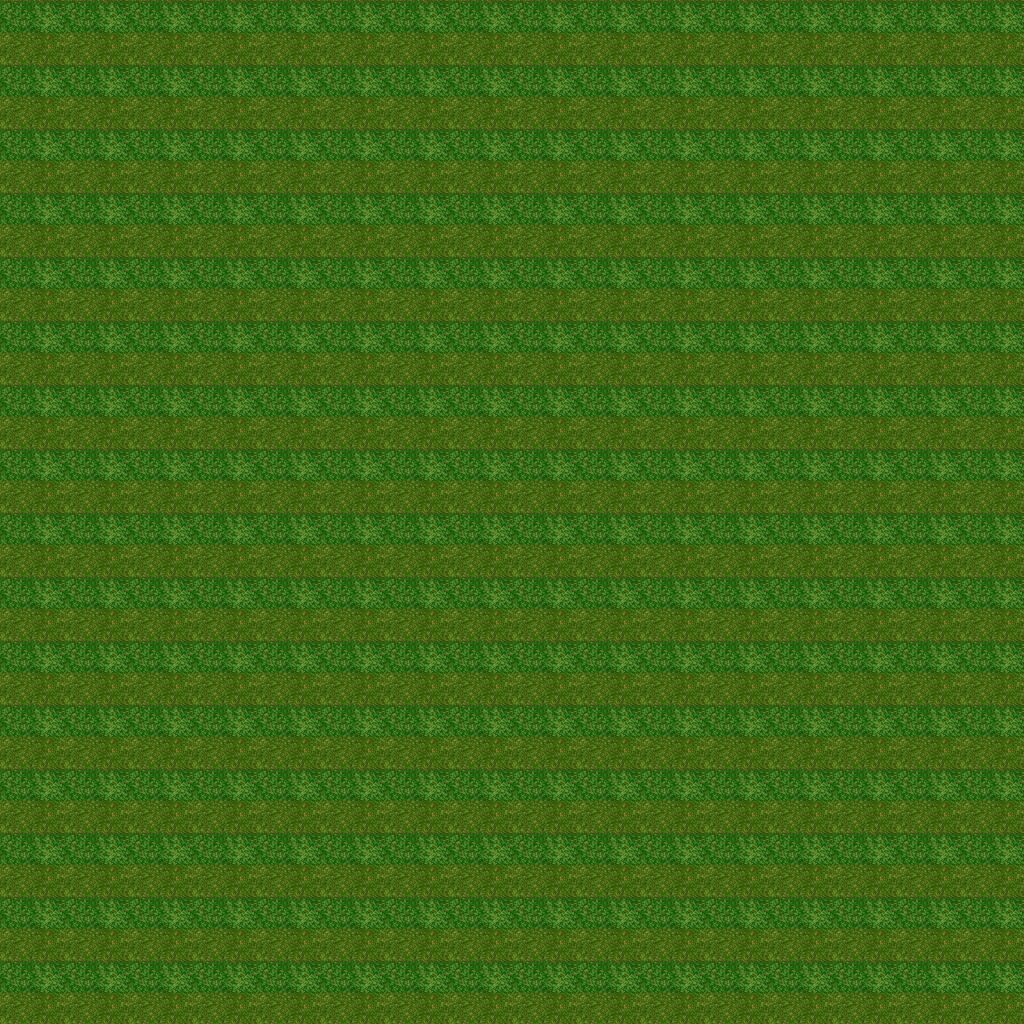
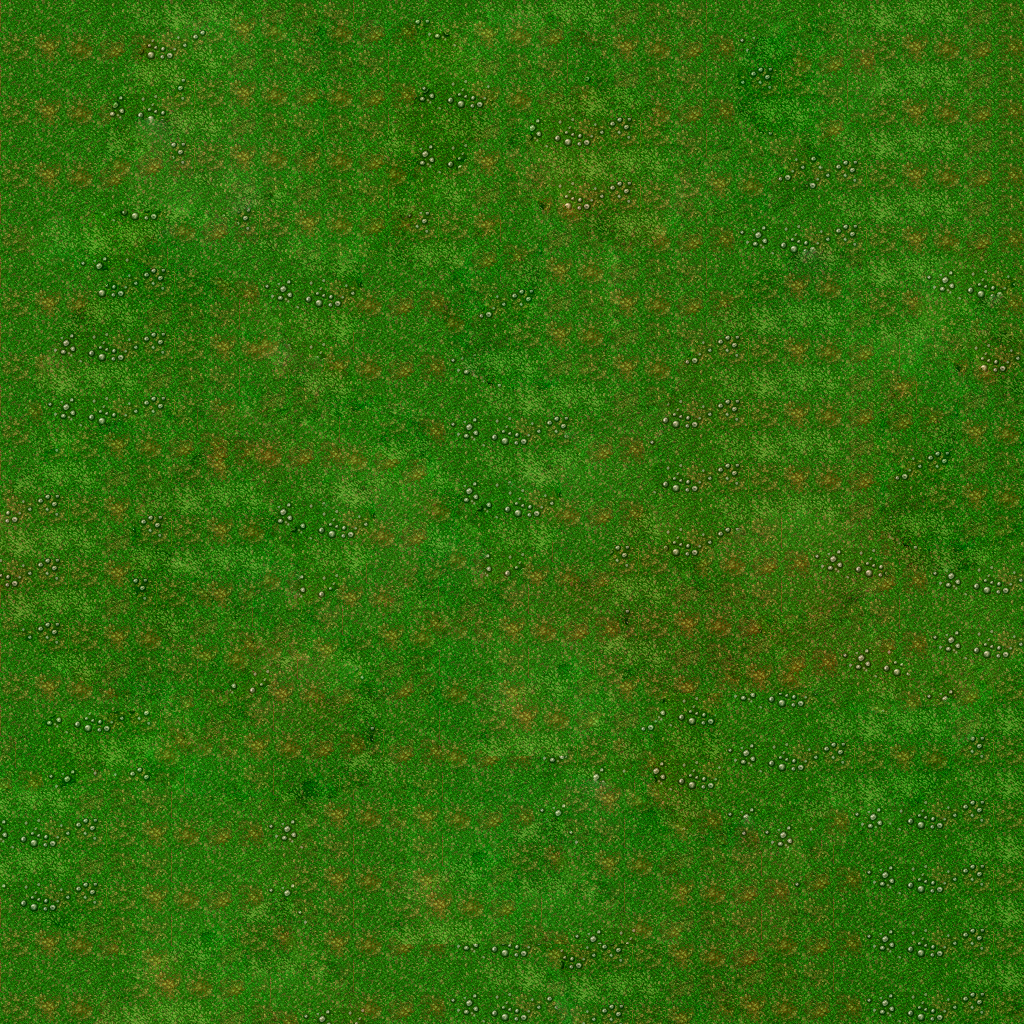
Novas imagens, proporcao de movables

diff --git a/lab07/src/src/BoardManager/BoardGenerator.java b/lab07/src/src/BoardManager/BoardGenerator.java
@@ -11,7 +11,7 @@ public class BoardGenerator implements iBoardGenerator{
             for (int j = 0; j < 16; j++) {
                 int randomNum = ThreadLocalRandom.current().nextInt(0, 101);
                 int randomIndex = 0;
-                if (randomNum > 66) {
+                if (randomNum > 50) {
                     randomIndex = ThreadLocalRandom.current().nextInt(1, 5);
                 }
                 String path = "file:assets/img/movableCell/movableCell"+randomIndex+".png";
